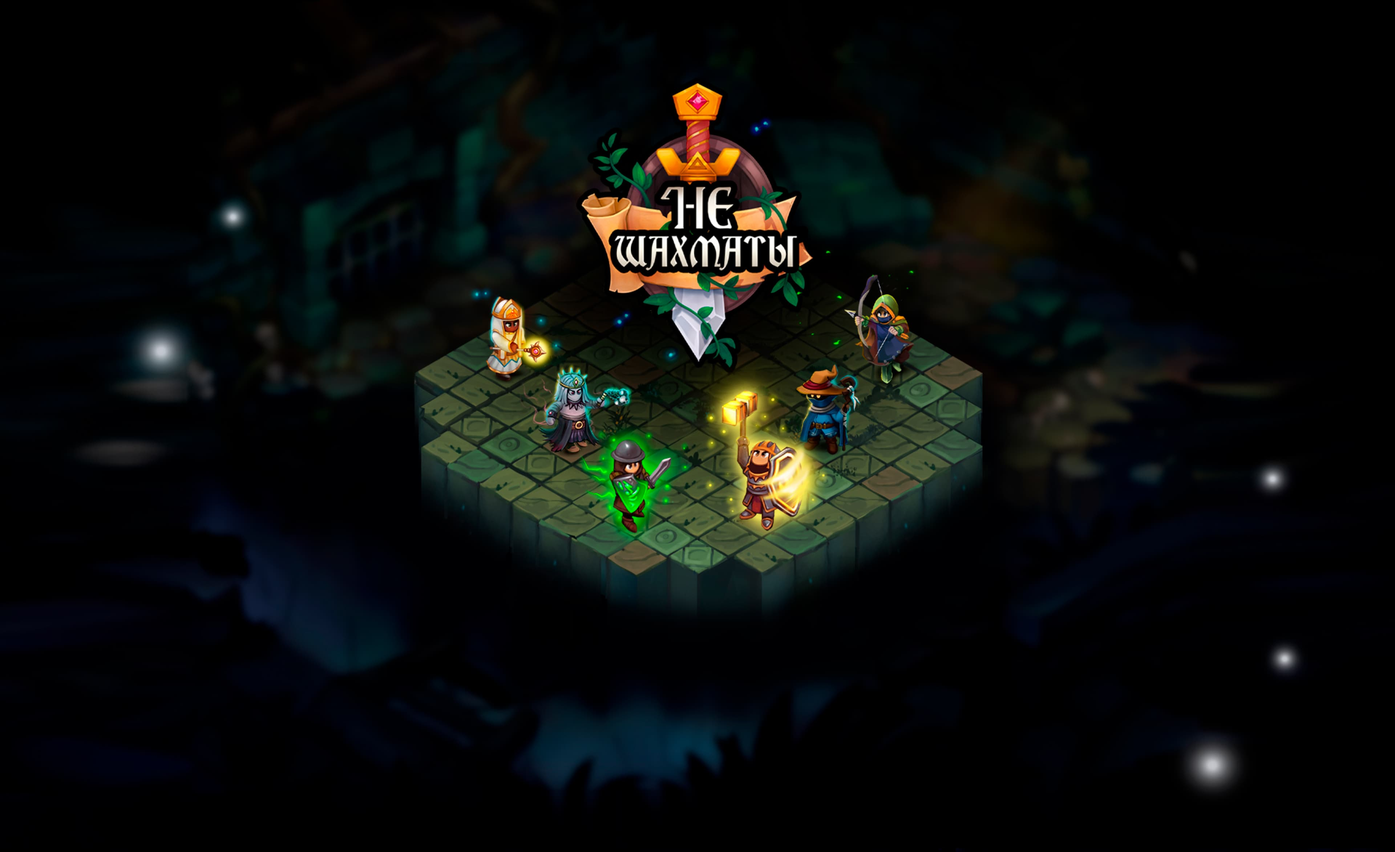
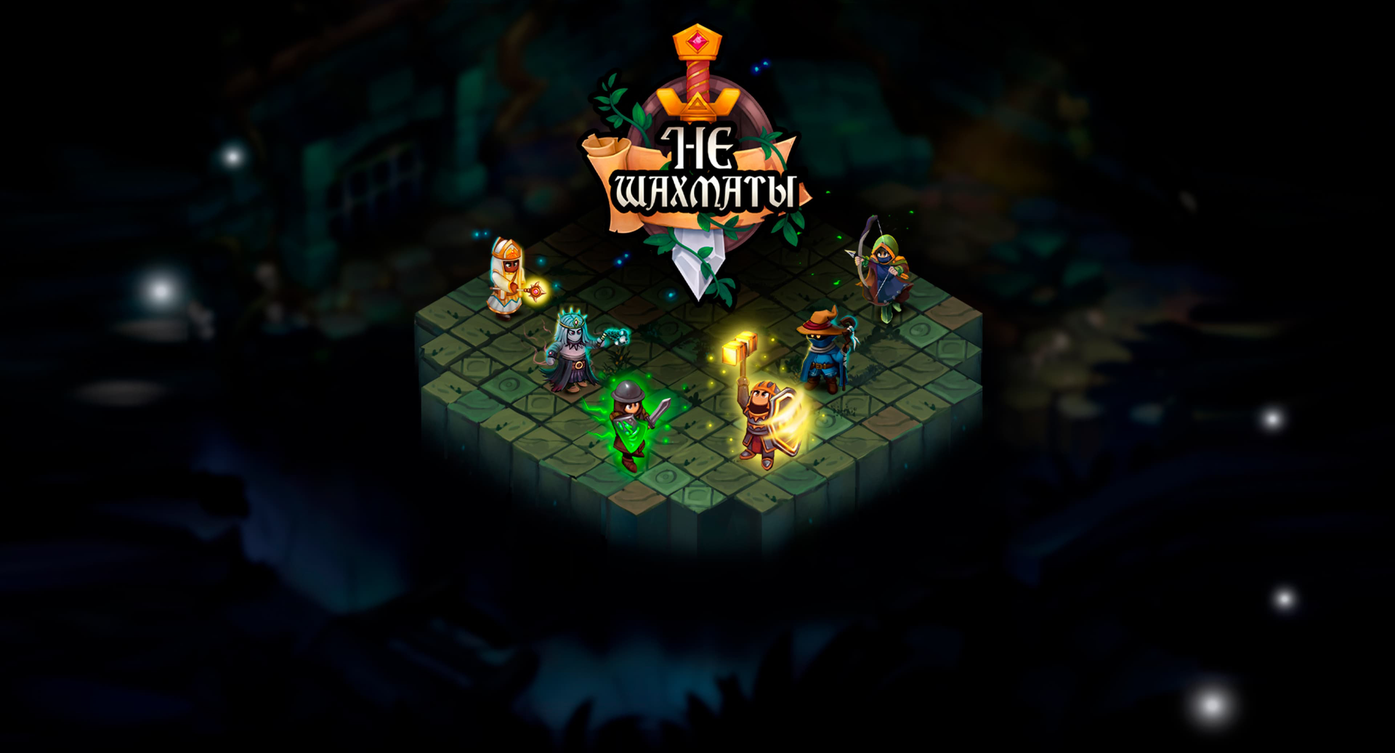
fix sizes

diff --git a/build/css/style.css b/build/css/style.css
@@ -1,1 +1,1 @@
-:root{--bg:#010602;--container_max_width:1280px;--container_padding:15px;--primary_font:"CookieRunOTF",Arial,sans-serif;--text:#ffe7b9}@font-face{font-family:CookieRunOTF;font-weight:400;font-style:normal;font-display:swap;src:url(../fonts/subset-CookieRunOTF-Regular00.woff2) format("woff2"),url(../fonts/subset-CookieRunOTF-Regular00.woff) format("woff")}@font-face{font-family:CookieRunOTF;font-weight:700;font-style:normal;font-display:swap;src:url(../fonts/subset-CookieRunOTF-Bold00.woff2) format("woff2"),url(../fonts/subset-CookieRunOTF-Bold00.woff) format("woff")}@font-face{font-family:CookieRunOTF;font-weight:900;font-style:normal;font-display:swap;src:url(../fonts/subset-CookieRunOTF-Black00.woff2) format("woff2"),url(../fonts/subset-CookieRunOTF-Black00.woff) format("woff")}*,::after,::before{-webkit-box-sizing:border-box;box-sizing:border-box}body,html{height:100%;margin:0;padding:0;scrollbar-color:var(--accent) var(--accent_2);scrollbar-width:thin}html{scroll-behavior:smooth}.page{font-family:var(--primary_font);font-size:clamp(16px,1.675vw,20px);font-weight:400;line-height:1.46;overflow-x:hidden;color:var(--text);background-color:var(--bg);-webkit-text-size-adjust:none;-moz-text-size-adjust:none;-ms-text-size-adjust:none;text-size-adjust:none}.page__content{overflow:hidden;max-width:1920px;margin-right:auto;margin-left:auto}.container{max-width:var(--container_max_width);margin-right:auto;margin-left:auto;padding-right:var(--container_padding);padding-left:var(--container_padding)}.h1,.h2,.h3,h1,h2,h3{font-size:clamp(24px,3.125vw,40px);line-height:1.33333;margin-top:0;margin-bottom:.66667em}.h1,.h2,h1,h2{font-weight:900;text-transform:uppercase}.h3,h3{font-weight:400}img{max-width:100%;height:auto}svg{-webkit-transition:fill .3s;transition:fill .3s}:focus{outline:0}button,input,textarea{font-family:inherit;font-size:inherit;line-height:inherit;color:inherit}p{margin-top:0;margin-bottom:1.5em}p:last-child{margin-bottom:0}ol:not([class]),ul:not([class]){margin-top:0;margin-bottom:1.5em}ol:not([class]):last-child,ul:not([class]):last-child{margin-bottom:0}ol:not([class]) li:not(:last-child),ul:not([class]) li:not(:last-child){margin-bottom:1em}ul{padding-left:1.5em}ol{list-style-position:inside}.text-center{text-align:center}.text-right{text-align:right}.button{font-family:var(--primary_font);font-size:16px;font-weight:500;line-height:1.3;display:-webkit-inline-box;display:-ms-inline-flexbox;display:inline-flex;min-height:48px;padding:8px 24px;cursor:pointer;-webkit-transition:all .3s;transition:all .3s;text-align:center;text-decoration:none;border:1px solid transparent;border-radius:10px;-webkit-box-align:center;-ms-flex-align:center;align-items:center;-webkit-box-pack:center;-ms-flex-pack:center;justify-content:center}.button.disabled,.button:disabled,.button[data-disabled]{cursor:default;pointer-events:none}.button--primary{color:#fff;background-color:var(--accent)}.button--primary.disabled,.button--primary:disabled,.button--primary[data-disabled]{color:#fff;border-color:var(--secondary_2);background-color:var(--secondary_2)}.button--secondary{color:var(--accent);border-color:var(--accent);background-color:var(--bg)}.button--secondary.disabled,.button--secondary:disabled,.button--secondary[data-disabled]{color:var(--secondary_2);border-color:var(--secondary_2);background-color:#fff}.button--secondary_2{color:var(--accent);background-color:#fff}.button--secondary_2.disabled,.button--secondary_2:disabled,.button--secondary_2[data-disabled]{color:var(--secondary_2);background-color:#fff}.section_1{max-height:1173px;padding-top:75%;padding-bottom:15%;background:url(../images/bg/section_1_1.jpg) no-repeat 50% 0/cover}.section_1__text-block{display:-webkit-box;display:-ms-flexbox;display:flex;-webkit-box-align:start;-ms-flex-align:start;align-items:flex-start;-webkit-box-pack:justify;-ms-flex-pack:justify;justify-content:space-between}.section_1__text p{max-width:40ch}.section_1 .btn_1{font-size:clamp(24px,3.25vw,40px);font-weight:700;display:-webkit-inline-box;display:-ms-inline-flexbox;display:inline-flex;height:2.74em;padding-right:.97em;padding-left:.97em;-webkit-transition:-webkit-transform .5s;transition:-webkit-transform .5s;transition:transform .5s;transition:transform .5s,-webkit-transform .5s;-webkit-transform:translateY(0);transform:translateY(0);white-space:nowrap;text-decoration:none;text-transform:uppercase;color:#fff;background:url(../images/buttons/btn_1.svg) no-repeat 50% 0/100% 100% transparent;-webkit-box-align:center;-ms-flex-align:center;align-items:center;-webkit-filter:drop-shadow(0 0 60px rgba(127, 255, 58, .6));filter:drop-shadow(0 0 60px rgba(127, 255, 58, .6));-webkit-text-stroke:clamp(.5px,.15vw,3px) #44697f;text-stroke:clamp(.5px,.15vw,3px) #44697f;will-change:transform}.section_2{max-height:1916px;padding-top:clamp(150px,20vw,350px);padding-bottom:clamp(40px,5vw,100px);color:#fff;background:url(../images/bg/section_2.jpg) no-repeat 50% 0/cover}.section_2 img{display:block;margin-bottom:1.5em}.section_3{position:relative;z-index:1;max-height:1702px;padding-top:clamp(40px,5vw,120px);padding-bottom:clamp(40px,5vw,120px);background:url(../images/bg/section_3.jpg) no-repeat 50% 0/cover}.section_3 .decor_1{position:absolute;z-index:1;top:0;right:0;left:auto;width:20vw;max-width:420px;height:20vw;max-height:420px;-webkit-transform:translate(65%,-50%);transform:translate(65%,-50%);background:url(../images/decor/crystal.png) no-repeat 0 0/contain}.section_3 .decor_2{position:absolute;z-index:1;top:auto;bottom:2vw;left:0;width:10vw;max-width:250px;height:10vw;max-height:250px;-webkit-transform:translateX(-65%);transform:translateX(-65%);background:url(../images/decor/crystal_2.png) no-repeat 0 0/contain}.section_3 .container{position:relative;z-index:2}.section_3 h2{margin-bottom:2em}.section_3 .socials{display:-webkit-box;display:-ms-flexbox;display:flex;gap:20px;-webkit-box-pack:end;-ms-flex-pack:end;justify-content:flex-end}.section_3 .socials .social{display:block;width:clamp(60px,7.5vw,100px);-webkit-transition:-webkit-transform .3s;transition:-webkit-transform .3s;transition:transform .3s;transition:transform .3s,-webkit-transform .3s;-webkit-transform:translateY(0);transform:translateY(0)}.section_3 .socials .social img{display:block}.feature{display:-webkit-box;display:-ms-flexbox;display:flex;-webkit-box-align:center;-ms-flex-align:center;align-items:center;gap:clamp(20px,5vw,40px)}.feature:not(:last-child){margin-bottom:clamp(40px,5vw,40px)}.feature__image{width:clamp(100px,11vw,120px);min-width:100px}.feature__image img{display:block;-webkit-filter:drop-shadow(0 0 80px rgba(255, 255, 255, .3));filter:drop-shadow(0 0 80px rgba(255, 255, 255, .3))}.section_4{max-height:1588px;padding-top:clamp(40px,5vw,120px);padding-bottom:clamp(40px,5vw,120px);color:#fff;background:url(../images/bg/section_4.jpg) no-repeat 50% 0/cover}.section_4 .btn_2{font-size:clamp(20px,3.25vw,40px);font-weight:700;display:-webkit-inline-box;display:-ms-inline-flexbox;display:inline-flex;height:3.15em;padding-right:1.1em;padding-left:1.1em;-webkit-transition:-webkit-transform .5s;transition:-webkit-transform .5s;transition:transform .5s;transition:transform .5s,-webkit-transform .5s;-webkit-transform:translateY(0);transform:translateY(0);white-space:nowrap;text-decoration:none;text-transform:uppercase;color:#fff;background:url(../images/buttons/btn_2.svg) no-repeat 50% 0/100% 100% transparent;-webkit-box-align:center;-ms-flex-align:center;align-items:center;-webkit-filter:drop-shadow(0 4px 80px rgba(5, 255, 242, .65));filter:drop-shadow(0 4px 80px rgba(5, 255, 242, .65));-webkit-text-stroke:clamp(.5px,.15vw,3px) #017752;text-stroke:clamp(.5px,.15vw,3px) #017752;will-change:transform}.slider{position:relative;z-index:1;margin:clamp(40px,5vw,120px) auto}.slider .swiper-button-next,.slider .swiper-button-prev{width:37px;height:49px;padding:0;cursor:pointer;border:none;background-color:transparent}.slider .swiper-button-next svg,.slider .swiper-button-prev svg{width:37px;height:49px;-webkit-transition:fill .3s;transition:fill .3s;fill:#fff}.slider .swiper-button-next::after,.slider .swiper-button-prev::after{display:none}.card{max-width:470px;max-height:734px;margin-right:auto;margin-left:auto;padding-top:clamp(60px,8vw,100px);padding-bottom:clamp(40px,8vw,80px);text-align:center;color:#fff;background:url(../images/bg/card.png) no-repeat 50% 0/100% 100% transparent}.card__image{width:60%;max-width:200px;margin-right:auto;margin-bottom:1.5em;margin-left:auto}.card__image img{display:block}.card p{font-size:clamp(16px,1.675vw,20px);line-height:1.35;display:-webkit-box;overflow:hidden;min-height:5.4em;padding-right:2em;padding-left:2em;-webkit-box-orient:vertical;-webkit-line-clamp:4}.section_5{max-height:1691px;padding-top:clamp(40px,8vw,240px);padding-bottom:clamp(40px,25vw,400px);color:#fff;background:url(../images/bg/section_5.jpg) no-repeat 50% 100%/cover}.section_5__inner{margin-top:clamp(40px,8vw,120px)}.section_5 .socials{display:-webkit-box;display:-ms-flexbox;display:flex;margin-bottom:clamp(40px,8vw,80px);gap:30px}.section_5 .socials .social{display:block;width:clamp(60px,10vw,100px);-webkit-transition:-webkit-transform .3s;transition:-webkit-transform .3s;transition:transform .3s;transition:transform .3s,-webkit-transform .3s;-webkit-transform:translateY(0);transform:translateY(0)}.section_5 .socials .social img{display:block}.section_5__button{position:relative;z-index:1;display:-webkit-inline-box;display:-ms-inline-flexbox;display:inline-flex}.section_5__button::before{position:absolute;z-index:-1;top:50%;left:0;width:25%;height:90%;content:"";-webkit-transform:translate(-60%,-50%);transform:translate(-60%,-50%);background:url(../images/decor/crystal_3.png) no-repeat 0 0/auto 100% transparent}.section_5__button::after{position:absolute;z-index:-1;top:35%;right:0;left:auto;width:25%;height:55%;content:"";-webkit-transform:translate(40%,-75%);transform:translate(40%,-75%);background:url(../images/decor/crystal_4.png) no-repeat 0 0/auto 100% transparent}.section_5 .btn_3{font-size:clamp(20px,3.25vw,40px);font-weight:700;display:-webkit-inline-box;display:-ms-inline-flexbox;display:inline-flex;height:2.775em;padding-right:1em;padding-left:1em;-webkit-transition:-webkit-transform .5s;transition:-webkit-transform .5s;transition:transform .5s;transition:transform .5s,-webkit-transform .5s;-webkit-transform:translateY(0);transform:translateY(0);white-space:nowrap;text-decoration:none;text-transform:uppercase;color:#fff;background:url(../images/buttons/btn_3.svg) no-repeat 50% 0/100% 100% transparent;-webkit-box-align:center;-ms-flex-align:center;align-items:center;-webkit-filter:drop-shadow(0 4px 80px rgba(5, 255, 242, .65));filter:drop-shadow(0 4px 80px rgba(5, 255, 242, .65));-webkit-text-stroke:clamp(.5px,.15vw,3px) #017752;text-stroke:clamp(.5px,.15vw,3px) #017752;will-change:transform}.section_5__left{text-align:center}.section_5__right{width:45%;max-width:695px}.section_5__right img{display:block}.section_6{font-size:clamp(20px,2.125vw,40px);max-height:1180px;padding-top:40px;padding-bottom:clamp(40px,5vw,100px);text-align:center;background:url(../images/bg/section_6.jpg) no-repeat 50% 0/cover}.section_6 h2{font-size:clamp(32px,6vw,100px);margin-bottom:0}.section_6 p{margin-bottom:14em}.section_6 .btn_4{font-size:clamp(24px,3.25vw,48px);font-weight:700;display:-webkit-inline-box;display:-ms-inline-flexbox;display:inline-flex;height:3.82em;padding-right:1.05em;padding-left:1.05em;-webkit-transition:-webkit-transform .5s;transition:-webkit-transform .5s;transition:transform .5s;transition:transform .5s,-webkit-transform .5s;-webkit-transform:translateY(0);transform:translateY(0);white-space:nowrap;text-decoration:none;text-transform:uppercase;color:#fff;background:url(../images/buttons/btn_4.png) no-repeat 50% 0/cover transparent;-webkit-box-align:center;-ms-flex-align:center;align-items:center;-webkit-filter:drop-shadow(0 0 59.1px rgba(127, 255, 58, .61));filter:drop-shadow(0 0 59.1px rgba(127, 255, 58, .61));-webkit-text-stroke:clamp(.5px,.15vw,3px) #a10508;text-stroke:clamp(.5px,.15vw,3px) #a10508;will-change:transform}@media (min-width:768px){:root{--container_padding:60px}.section_5__inner{display:-webkit-box;display:-ms-flexbox;display:flex;-webkit-box-orient:horizontal;-webkit-box-direction:reverse;-ms-flex-direction:row-reverse;flex-direction:row-reverse;-webkit-box-align:center;-ms-flex-align:center;align-items:center;-webkit-box-pack:justify;-ms-flex-pack:justify;justify-content:space-between}}@media (min-width:1024px){.button{border-radius:15px}.button--h_52{min-height:52px}}@media (min-width:1400px){.section_1{padding-top:35%;padding-bottom:14%}.slider .swiper-button-next{right:-85px}.slider .swiper-button-prev{left:-85px}}@media (min-width:1600px){.slider .swiper-button-next,.slider .swiper-button-prev{width:75px;height:98px}.slider .swiper-button-next svg,.slider .swiper-button-prev svg{width:75px;height:98px}.section_5__right{-webkit-transform:translateX(80px);transform:translateX(80px)}}@media (max-width:1023.98px){.section_1__text-block{-webkit-box-orient:vertical;-webkit-box-direction:normal;-ms-flex-direction:column;flex-direction:column;-webkit-box-align:center;-ms-flex-align:center;align-items:center}.section_1__text{margin-bottom:1.5em;text-align:center}.card{max-width:345px}}@media (max-width:767.98px){.slider{max-width:345px}.section_5 .socials{-webkit-box-pack:center;-ms-flex-pack:center;justify-content:center}.section_5__right{width:70%;max-width:400px;margin-right:auto;margin-bottom:clamp(40px,5vw,120px);margin-left:auto}}@media (min-width:768px) and (max-width:1023.98px){.slider{max-width:740px}}@media (any-hover:hover){.button--primary:not(.disabled):hover,.button--primary:not(:disabled):hover,.button--primary:not([data-disabled]):hover{color:#fff;background-color:var(--button_hover)}.button--secondary:not(.disabled):hover,.button--secondary:not(:disabled):hover,.button--secondary:not([data-disabled]):hover{color:var(--button_hover);border-color:var(--button_hover)}.button--secondary_2:not(.disabled):hover,.button--secondary_2:not(:disabled):hover,.button--secondary_2:not([data-disabled]):hover{color:var(--button_hover)}.section_1 .btn_1:hover{-webkit-transform:translateY(.1em);transform:translateY(.1em)}.section_3 .socials .social:hover{-webkit-transform:translateY(.1em);transform:translateY(.1em)}.section_4 .btn_2:hover{-webkit-transform:translateY(.1em);transform:translateY(.1em)}.slider .swiper-button-next:hover svg,.slider .swiper-button-prev:hover svg{fill:#05fff2}.section_5 .socials .social:hover{-webkit-transform:translateY(.1em);transform:translateY(.1em)}.section_5 .btn_3:hover{-webkit-transform:translateY(.1em);transform:translateY(.1em)}.section_6 .btn_4:hover{-webkit-transform:translateY(.1em);transform:translateY(.1em)}}
+:root{--bg:#010602;--container_max_width:1280px;--container_padding:15px;--primary_font:"CookieRunOTF",Arial,sans-serif;--text:#ffe7b9}@font-face{font-family:CookieRunOTF;font-weight:400;font-style:normal;font-display:swap;src:url(../fonts/subset-CookieRunOTF-Regular00.woff2) format("woff2"),url(../fonts/subset-CookieRunOTF-Regular00.woff) format("woff")}@font-face{font-family:CookieRunOTF;font-weight:700;font-style:normal;font-display:swap;src:url(../fonts/subset-CookieRunOTF-Bold00.woff2) format("woff2"),url(../fonts/subset-CookieRunOTF-Bold00.woff) format("woff")}@font-face{font-family:CookieRunOTF;font-weight:900;font-style:normal;font-display:swap;src:url(../fonts/subset-CookieRunOTF-Black00.woff2) format("woff2"),url(../fonts/subset-CookieRunOTF-Black00.woff) format("woff")}*,::after,::before{-webkit-box-sizing:border-box;box-sizing:border-box}body,html{height:100%;margin:0;padding:0;scrollbar-color:var(--accent) var(--accent_2);scrollbar-width:thin}html{scroll-behavior:smooth}.page{font-family:var(--primary_font);font-size:clamp(16px,1.675vw,20px);font-weight:400;line-height:1.46;overflow-x:hidden;color:var(--text);background-color:var(--bg);-webkit-text-size-adjust:none;-moz-text-size-adjust:none;-ms-text-size-adjust:none;text-size-adjust:none}.page__content{overflow:hidden;max-width:1920px;margin-right:auto;margin-left:auto}.container{max-width:var(--container_max_width);margin-right:auto;margin-left:auto;padding-right:var(--container_padding);padding-left:var(--container_padding)}.h1,.h2,.h3,h1,h2,h3{font-size:clamp(24px,3.125vw,40px);line-height:1.33333;margin-top:0;margin-bottom:.66667em}.h1,.h2,h1,h2{font-weight:900;text-transform:uppercase}.h3,h3{font-weight:400}img{max-width:100%;height:auto}svg{-webkit-transition:fill .3s;transition:fill .3s}:focus{outline:0}button,input,textarea{font-family:inherit;font-size:inherit;line-height:inherit;color:inherit}p{margin-top:0;margin-bottom:1.5em}p:last-child{margin-bottom:0}ol:not([class]),ul:not([class]){margin-top:0;margin-bottom:1.5em}ol:not([class]):last-child,ul:not([class]):last-child{margin-bottom:0}ol:not([class]) li:not(:last-child),ul:not([class]) li:not(:last-child){margin-bottom:1em}ul{padding-left:1.5em}ol{list-style-position:inside}.text-center{text-align:center}.text-right{text-align:right}.button{font-family:var(--primary_font);font-size:16px;font-weight:500;line-height:1.3;display:-webkit-inline-box;display:-ms-inline-flexbox;display:inline-flex;min-height:48px;padding:8px 24px;cursor:pointer;-webkit-transition:all .3s;transition:all .3s;text-align:center;text-decoration:none;border:1px solid transparent;border-radius:10px;-webkit-box-align:center;-ms-flex-align:center;align-items:center;-webkit-box-pack:center;-ms-flex-pack:center;justify-content:center}.button.disabled,.button:disabled,.button[data-disabled]{cursor:default;pointer-events:none}.button--primary{color:#fff;background-color:var(--accent)}.button--primary.disabled,.button--primary:disabled,.button--primary[data-disabled]{color:#fff;border-color:var(--secondary_2);background-color:var(--secondary_2)}.button--secondary{color:var(--accent);border-color:var(--accent);background-color:var(--bg)}.button--secondary.disabled,.button--secondary:disabled,.button--secondary[data-disabled]{color:var(--secondary_2);border-color:var(--secondary_2);background-color:#fff}.button--secondary_2{color:var(--accent);background-color:#fff}.button--secondary_2.disabled,.button--secondary_2:disabled,.button--secondary_2[data-disabled]{color:var(--secondary_2);background-color:#fff}.section_1{max-height:1173px;padding-top:75%;padding-bottom:15%;background:url(../images/bg/section_1_1.jpg) no-repeat 50% 0/cover}.section_1__text-block{display:-webkit-box;display:-ms-flexbox;display:flex;-webkit-box-align:start;-ms-flex-align:start;align-items:flex-start;-webkit-box-pack:justify;-ms-flex-pack:justify;justify-content:space-between}.section_1__text p{max-width:40ch}.section_1 .btn_1{font-size:clamp(24px,3.25vw,40px);font-weight:700;display:-webkit-inline-box;display:-ms-inline-flexbox;display:inline-flex;height:2.74em;padding-right:.97em;padding-left:.97em;-webkit-transition:-webkit-transform .5s;transition:-webkit-transform .5s;transition:transform .5s;transition:transform .5s,-webkit-transform .5s;-webkit-transform:translateY(0);transform:translateY(0);white-space:nowrap;text-decoration:none;text-transform:uppercase;color:#fff;background:url(../images/buttons/btn_1.svg) no-repeat 50% 0/100% 100% transparent;-webkit-box-align:center;-ms-flex-align:center;align-items:center;-webkit-filter:drop-shadow(0 0 60px rgba(127, 255, 58, .6));filter:drop-shadow(0 0 60px rgba(127, 255, 58, .6));-webkit-text-stroke:clamp(.5px,.15vw,3px) #44697f;text-stroke:clamp(.5px,.15vw,3px) #44697f;will-change:transform}.section_2{max-height:1916px;padding-top:clamp(150px,20vw,300px);padding-bottom:clamp(40px,5vw,80px);color:#fff;background:url(../images/bg/section_2.jpg) no-repeat 50% 0/cover}.section_2 img{display:block;margin-bottom:1.5em}.section_3{position:relative;z-index:1;max-height:1702px;padding-top:clamp(40px,5vw,80px);padding-bottom:clamp(40px,5vw,80px);background:url(../images/bg/section_3.jpg) no-repeat 50% 0/cover}.section_3 .decor_1{position:absolute;z-index:1;top:0;right:0;left:auto;width:20vw;max-width:420px;height:20vw;max-height:420px;-webkit-transform:translate(65%,-50%);transform:translate(65%,-50%);background:url(../images/decor/crystal.png) no-repeat 0 0/contain}.section_3 .decor_2{position:absolute;z-index:1;top:auto;bottom:2vw;left:0;width:10vw;max-width:250px;height:10vw;max-height:250px;-webkit-transform:translateX(-65%);transform:translateX(-65%);background:url(../images/decor/crystal_2.png) no-repeat 0 0/contain}.section_3 .container{position:relative;z-index:2}.section_3 h2{margin-bottom:1.5em}.section_3 .socials{display:-webkit-box;display:-ms-flexbox;display:flex;gap:20px;-webkit-box-pack:end;-ms-flex-pack:end;justify-content:flex-end}.section_3 .socials .social{display:block;width:clamp(60px,7.5vw,100px);-webkit-transition:-webkit-transform .3s;transition:-webkit-transform .3s;transition:transform .3s;transition:transform .3s,-webkit-transform .3s;-webkit-transform:translateY(0);transform:translateY(0)}.section_3 .socials .social img{display:block}.feature{display:-webkit-box;display:-ms-flexbox;display:flex;-webkit-box-align:center;-ms-flex-align:center;align-items:center;gap:clamp(20px,5vw,40px)}.feature:not(:last-child){margin-bottom:clamp(40px,5vw,40px)}.feature__image{width:clamp(100px,11vw,120px);min-width:100px}.feature__image img{display:block;-webkit-filter:drop-shadow(0 0 80px rgba(255, 255, 255, .3));filter:drop-shadow(0 0 80px rgba(255, 255, 255, .3))}.section_4{max-height:1588px;padding-top:clamp(40px,5vw,80px);padding-bottom:clamp(40px,5vw,80px);color:#fff;background:url(../images/bg/section_4.jpg) no-repeat 50% 0/cover}.section_4 .btn_2{font-size:clamp(20px,3.25vw,40px);font-weight:700;display:-webkit-inline-box;display:-ms-inline-flexbox;display:inline-flex;height:3.15em;padding-right:1.1em;padding-left:1.1em;-webkit-transition:-webkit-transform .5s;transition:-webkit-transform .5s;transition:transform .5s;transition:transform .5s,-webkit-transform .5s;-webkit-transform:translateY(0);transform:translateY(0);white-space:nowrap;text-decoration:none;text-transform:uppercase;color:#fff;background:url(../images/buttons/btn_2.svg) no-repeat 50% 0/100% 100% transparent;-webkit-box-align:center;-ms-flex-align:center;align-items:center;-webkit-filter:drop-shadow(0 4px 80px rgba(5, 255, 242, .65));filter:drop-shadow(0 4px 80px rgba(5, 255, 242, .65));-webkit-text-stroke:clamp(.5px,.15vw,3px) #017752;text-stroke:clamp(.5px,.15vw,3px) #017752;will-change:transform}.slider{position:relative;z-index:1;margin:clamp(40px,5vw,80px) auto}.slider .swiper-button-next,.slider .swiper-button-prev{width:37px;height:49px;padding:0;cursor:pointer;border:none;background-color:transparent}.slider .swiper-button-next svg,.slider .swiper-button-prev svg{width:37px;height:49px;-webkit-transition:fill .3s;transition:fill .3s;fill:#fff}.slider .swiper-button-next::after,.slider .swiper-button-prev::after{display:none}.card{max-width:470px;max-height:734px;margin-right:auto;margin-left:auto;padding-top:clamp(60px,8vw,100px);padding-bottom:clamp(40px,8vw,80px);text-align:center;color:#fff;background:url(../images/bg/card.png) no-repeat 50% 0/100% 100% transparent}.card__image{width:60%;max-width:200px;margin-right:auto;margin-bottom:1.5em;margin-left:auto}.card__image img{display:block}.card p{font-size:clamp(16px,1.675vw,20px);line-height:1.35;display:-webkit-box;overflow:hidden;min-height:5.4em;padding-right:2em;padding-left:2em;-webkit-box-orient:vertical;-webkit-line-clamp:4}.section_5{max-height:1691px;padding-top:clamp(40px,8vw,100px);padding-bottom:clamp(40px,8vw,100px);color:#fff;background:url(../images/bg/section_5.jpg) no-repeat 50% 100%/cover}.section_5__inner{margin-top:clamp(40px,8vw,80px)}.section_5 .socials{display:-webkit-box;display:-ms-flexbox;display:flex;margin-bottom:clamp(40px,8vw,80px);gap:30px}.section_5 .socials .social{display:block;width:clamp(60px,10vw,100px);-webkit-transition:-webkit-transform .3s;transition:-webkit-transform .3s;transition:transform .3s;transition:transform .3s,-webkit-transform .3s;-webkit-transform:translateY(0);transform:translateY(0)}.section_5 .socials .social img{display:block}.section_5__button{position:relative;z-index:1;display:-webkit-inline-box;display:-ms-inline-flexbox;display:inline-flex}.section_5__button::before{position:absolute;z-index:-1;top:50%;left:0;width:25%;height:90%;content:"";-webkit-transform:translate(-60%,-50%);transform:translate(-60%,-50%);background:url(../images/decor/crystal_3.png) no-repeat 0 0/auto 100% transparent}.section_5__button::after{position:absolute;z-index:-1;top:35%;right:0;left:auto;width:25%;height:55%;content:"";-webkit-transform:translate(40%,-75%);transform:translate(40%,-75%);background:url(../images/decor/crystal_4.png) no-repeat 0 0/auto 100% transparent}.section_5 .btn_3{font-size:clamp(20px,3.25vw,40px);font-weight:700;display:-webkit-inline-box;display:-ms-inline-flexbox;display:inline-flex;height:2.775em;padding-right:1em;padding-left:1em;-webkit-transition:-webkit-transform .5s;transition:-webkit-transform .5s;transition:transform .5s;transition:transform .5s,-webkit-transform .5s;-webkit-transform:translateY(0);transform:translateY(0);white-space:nowrap;text-decoration:none;text-transform:uppercase;color:#fff;background:url(../images/buttons/btn_3.svg) no-repeat 50% 0/100% 100% transparent;-webkit-box-align:center;-ms-flex-align:center;align-items:center;-webkit-filter:drop-shadow(0 4px 80px rgba(5, 255, 242, .65));filter:drop-shadow(0 4px 80px rgba(5, 255, 242, .65));-webkit-text-stroke:clamp(.5px,.15vw,3px) #017752;text-stroke:clamp(.5px,.15vw,3px) #017752;will-change:transform}.section_5__left{text-align:center}.section_5__right{width:40%;max-width:695px}.section_5__right img{display:block}.section_6{font-size:clamp(20px,2.125vw,24px);max-height:1180px;padding-top:clamp(40px,5vw,60px);padding-bottom:clamp(40px,5vw,100px);text-align:center;background:url(../images/bg/section_6.jpg) no-repeat 50% 0/cover}.section_6 h2{font-size:clamp(32px,6vw,80px);margin-bottom:0}.section_6 p{margin-bottom:18em}.section_6 .btn_4{font-size:clamp(24px,3.25vw,40px);font-weight:700;display:-webkit-inline-box;display:-ms-inline-flexbox;display:inline-flex;height:3.82em;padding-right:1.05em;padding-left:1.05em;-webkit-transition:-webkit-transform .5s;transition:-webkit-transform .5s;transition:transform .5s;transition:transform .5s,-webkit-transform .5s;-webkit-transform:translateY(0);transform:translateY(0);white-space:nowrap;text-decoration:none;text-transform:uppercase;color:#fff;background:url(../images/buttons/btn_4.png) no-repeat 50% 0/cover transparent;-webkit-box-align:center;-ms-flex-align:center;align-items:center;-webkit-filter:drop-shadow(0 0 59.1px rgba(127, 255, 58, .61));filter:drop-shadow(0 0 59.1px rgba(127, 255, 58, .61));-webkit-text-stroke:clamp(.5px,.15vw,3px) #a10508;text-stroke:clamp(.5px,.15vw,3px) #a10508;will-change:transform}@media (min-width:768px){:root{--container_padding:60px}.section_5__inner{display:-webkit-box;display:-ms-flexbox;display:flex;-webkit-box-orient:horizontal;-webkit-box-direction:reverse;-ms-flex-direction:row-reverse;flex-direction:row-reverse;-webkit-box-align:center;-ms-flex-align:center;align-items:center;-webkit-box-pack:justify;-ms-flex-pack:justify;justify-content:space-between}}@media (min-width:1024px){.button{border-radius:15px}.button--h_52{min-height:52px}}@media (min-width:1400px){.section_1{padding-top:37.5%;padding-bottom:7%}.slider .swiper-button-next{right:-85px}.slider .swiper-button-prev{left:-85px}}@media (min-width:1600px){.slider .swiper-button-next,.slider .swiper-button-prev{width:75px;height:98px}.slider .swiper-button-next svg,.slider .swiper-button-prev svg{width:75px;height:98px}}@media (max-width:1023.98px){.section_1__text-block{-webkit-box-orient:vertical;-webkit-box-direction:normal;-ms-flex-direction:column;flex-direction:column;-webkit-box-align:center;-ms-flex-align:center;align-items:center}.section_1__text{margin-bottom:1.5em;text-align:center}.card{max-width:345px}}@media (max-width:767.98px){.slider{max-width:345px}.section_5 .socials{-webkit-box-pack:center;-ms-flex-pack:center;justify-content:center}.section_5__right{width:70%;max-width:400px;margin-right:auto;margin-bottom:clamp(40px,5vw,120px);margin-left:auto}}@media (min-width:768px) and (max-width:1023.98px){.slider{max-width:740px}}@media (any-hover:hover){.button--primary:not(.disabled):hover,.button--primary:not(:disabled):hover,.button--primary:not([data-disabled]):hover{color:#fff;background-color:var(--button_hover)}.button--secondary:not(.disabled):hover,.button--secondary:not(:disabled):hover,.button--secondary:not([data-disabled]):hover{color:var(--button_hover);border-color:var(--button_hover)}.button--secondary_2:not(.disabled):hover,.button--secondary_2:not(:disabled):hover,.button--secondary_2:not([data-disabled]):hover{color:var(--button_hover)}.section_1 .btn_1:hover{-webkit-transform:translateY(.1em);transform:translateY(.1em)}.section_3 .socials .social:hover{-webkit-transform:translateY(.1em);transform:translateY(.1em)}.section_4 .btn_2:hover{-webkit-transform:translateY(.1em);transform:translateY(.1em)}.slider .swiper-button-next:hover svg,.slider .swiper-button-prev:hover svg{fill:#05fff2}.section_5 .socials .social:hover{-webkit-transform:translateY(.1em);transform:translateY(.1em)}.section_5 .btn_3:hover{-webkit-transform:translateY(.1em);transform:translateY(.1em)}.section_6 .btn_4:hover{-webkit-transform:translateY(.1em);transform:translateY(.1em)}}

diff --git a/src/css/styles/_section_5.scss b/src/css/styles/_section_5.scss
@@ -2,11 +2,11 @@
     background: url("../images/bg/section_5.jpg") no-repeat 50% 100% / cover;
     color: #fff;
     max-height: 1691px;
-    padding-top: clamp(40px, 8vw, 240px);
-    padding-bottom: clamp(40px, 25vw, 400px);
+    padding-top: clamp(40px, 8vw, 100px);
+    padding-bottom: clamp(40px, 8vw, 100px);
 
     &__inner {
-        margin-top: clamp(40px, 8vw, 120px);
+        margin-top: clamp(40px, 8vw, 80px);
         @media(min-width: $sm) {
             align-items: center;
             display: flex;
@@ -99,16 +99,13 @@
 
     &__right {
         max-width: 695px;
-        width: 45%;
+        width: 40%;
         @media(max-width: $sm - 0.02px) {
             max-width: 400px;
             margin-left: auto;
             margin-right: auto;
             margin-bottom: clamp(40px, 5vw, 120px);
             width: 70%;
-        }
-        @media(min-width: $fhd) {
-            transform: translateX(80px);
         }
 
         img {

diff --git a/src/css/styles/_section_6.scss b/src/css/styles/_section_6.scss
@@ -1,18 +1,18 @@
 .section_6 {
     background: url("../images/bg/section_6.jpg") no-repeat 50% 0 / cover;
-    font-size: clamp(20px, 2.125vw, 40px);
+    font-size: clamp(20px, 2.125vw, 24px);
     max-height: 1180px;
-    padding-top: 40px;
+    padding-top: clamp(40px, 5vw, 60px);
     padding-bottom: clamp(40px, 5vw, 100px);
     text-align: center;
 
     h2 {
-        font-size: clamp(32px, 6vw ,100px);
+        font-size: clamp(32px, 6vw ,80px);
         margin-bottom: 0;
     }
 
     p {
-        margin-bottom: 14em;
+        margin-bottom: 18em;
     }
 
     .btn_4 {
@@ -21,7 +21,7 @@
         color: #fff;
         display: inline-flex;
         filter: drop-shadow(0px 0px 59.1px rgba(127, 255, 58, 0.61));
-        font-size: clamp(24px, 3.25vw, 48px);
+        font-size: clamp(24px, 3.25vw, 40px);
         font-weight: 700;
         height: 3.82em;
         padding-left: 1.05em;

diff --git a/src/css/styles/_section_4.scss b/src/css/styles/_section_4.scss
@@ -2,8 +2,8 @@
     background: url("../images/bg/section_4.jpg") no-repeat 50% 0 / cover;
     color: #fff;
     max-height: 1588px;
-    padding-top: clamp(40px, 5vw, 120px);
-    padding-bottom: clamp(40px, 5vw, 120px);
+    padding-top: clamp(40px, 5vw, 80px);
+    padding-bottom: clamp(40px, 5vw, 80px);
 
     .btn_2 {
         align-items: center;
@@ -31,7 +31,7 @@
 }
 
 .slider {
-    margin: clamp(40px, 5vw, 120px) auto;
+    margin: clamp(40px, 5vw, 80px) auto;
     position: relative;
     z-index: 1;
     @media(max-width: $sm - 0.02px) {

diff --git a/src/css/styles/_section_3.scss b/src/css/styles/_section_3.scss
@@ -1,8 +1,8 @@
 .section_3 {
     background: url("../images/bg/section_3.jpg") no-repeat 50% 0 / cover;
     max-height: 1702px;
-    padding-top: clamp(40px, 5vw, 120px);
-    padding-bottom: clamp(40px, 5vw, 120px);
+    padding-top: clamp(40px, 5vw, 80px);
+    padding-bottom: clamp(40px, 5vw, 80px);
     position: relative;
     z-index: 1;
 
@@ -40,7 +40,7 @@
     }
 
     h2 {
-        margin-bottom: 2em;
+        margin-bottom: 1.5em;
     }
 
     .socials {

diff --git a/src/css/styles/_section_2.scss b/src/css/styles/_section_2.scss
@@ -2,8 +2,8 @@
     background: url("../images/bg/section_2.jpg") no-repeat 50% 0 / cover;
     color: #fff;
     max-height: 1916px;
-    padding-top: clamp(150px, 20vw, 350px);
-    padding-bottom: clamp(40px, 5vw, 100px);
+    padding-top: clamp(150px, 20vw, 300px);
+    padding-bottom: clamp(40px, 5vw, 80px);
 
     img {
         display: block;

diff --git a/src/css/styles/_section_1.scss b/src/css/styles/_section_1.scss
@@ -5,8 +5,8 @@
     padding-top: 75%;
     padding-bottom: 15%;
     @media(min-width: $lg) {
-        padding-top: 35%;
-        padding-bottom: 14%;
+        padding-top: 37.5%;
+        padding-bottom: 7%;
     }
 
     &__text-block {
